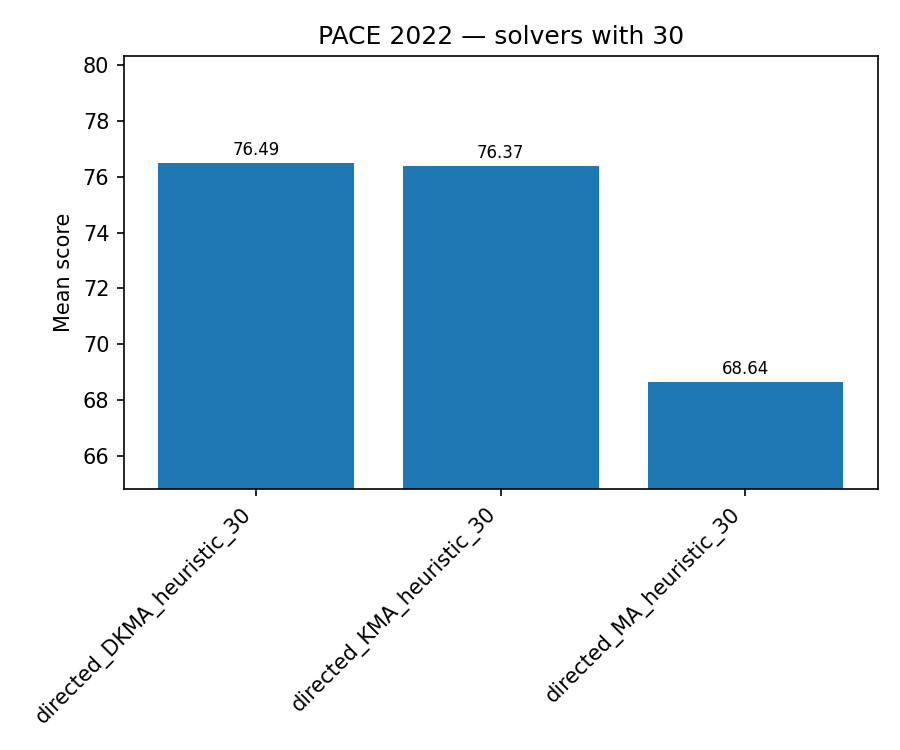
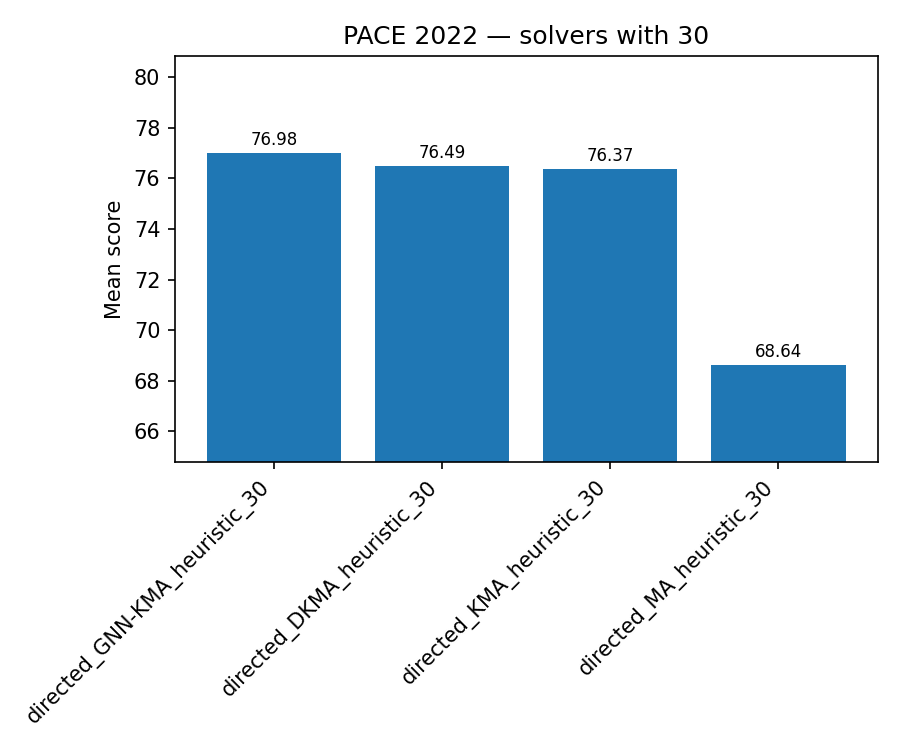
added GNN KMA plot

diff --git a/paceresults/plot_pace_results.py b/paceresults/plot_pace_results.py
@@ -81,13 +81,38 @@ def main():
             save_bar(subset, 'solver', 'mean_score', f'PACE 2022 — solvers with {suffix}', f'group_{suffix}_mean_score.png')
 
     # 3) Groups: MA, KMA, DKMA
-    groups = {
-        'MA': lambda s: ('MA' in s and 'KMA' not in s and 'DKMA' not in s),
-        'KMA': lambda s: 'KMA' in s,
-        'DKMA': lambda s: 'DKMA' in s,
-    }
-    for name, pred in groups.items():
-        subset = df[[pred(s) for s in df['solver']]]
+    # 3) Dynamic groups discovered from solver name tokens (auto-detect common model prefixes)
+    def discover_groups(df):
+        import re
+        names = df['solver'].fillna('').astype(str).tolist()
+        token_counts: dict[str,int] = {}
+        name_tokens: list[list[str]] = []
+        for n in names:
+            tokens = [t for t in re.findall(r"[A-Za-z0-9]+", n) if t]
+            name_tokens.append(tokens)
+            for t in tokens:
+                token_counts[t.upper()] = token_counts.get(t.upper(), 0) + 1
+
+        # exclude trivial tokens and numeric suffixes handled earlier
+        exclude = {"SOLVER", "MODEL", "HEURISTIC", "DIRECTED", "UNDIRECTED", "SUMMARY"}
+        numeric_exclude = {"15", "30", "60", "90"}
+
+        # prefer longer tokens first to avoid splitting KMA->MA
+        tokens_sorted = sorted([t for t in token_counts.keys() if t not in exclude and t not in numeric_exclude], key=lambda x: (-len(x), -token_counts[x]))
+
+        groups: dict[str, list[bool]] = {}
+        for tok in tokens_sorted:
+            # require token to appear at least twice to be considered a group
+            if token_counts.get(tok, 0) < 2:
+                continue
+            mask = [tok.lower() in " ".join(ts).lower() for ts in name_tokens]
+            if any(mask):
+                groups[tok] = mask
+        return groups
+
+    groups = discover_groups(df)
+    for name, mask in groups.items():
+        subset = df[[m for m in mask]]
         if not subset.empty:
             save_bar(subset, 'solver', 'mean_score', f'PACE 2022 — {name} solvers', f'models_{name}_mean_score.png')
 
